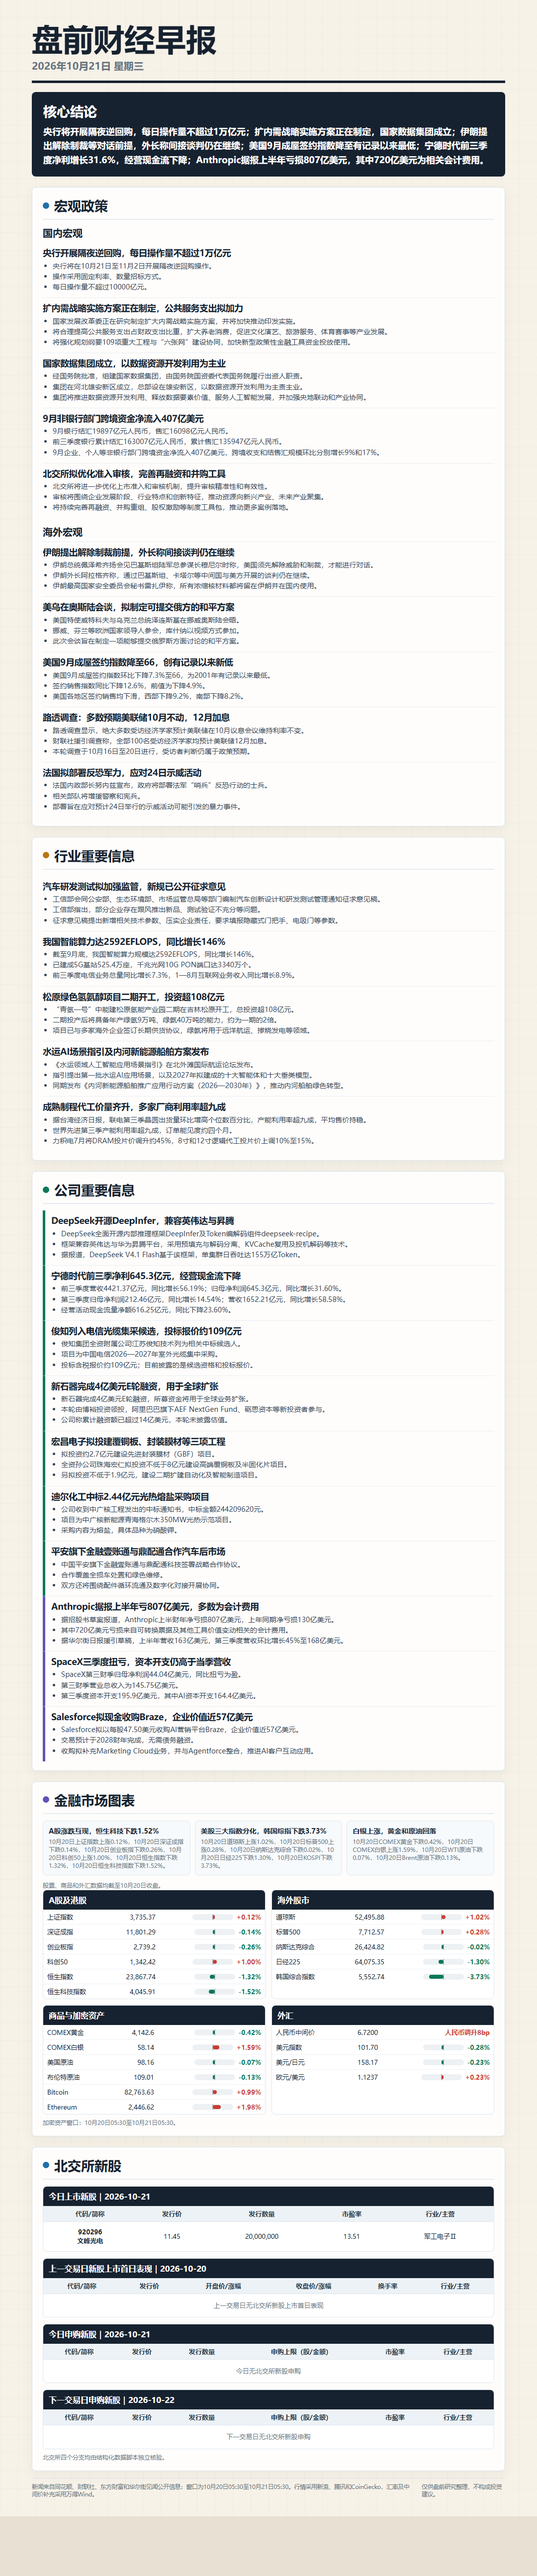
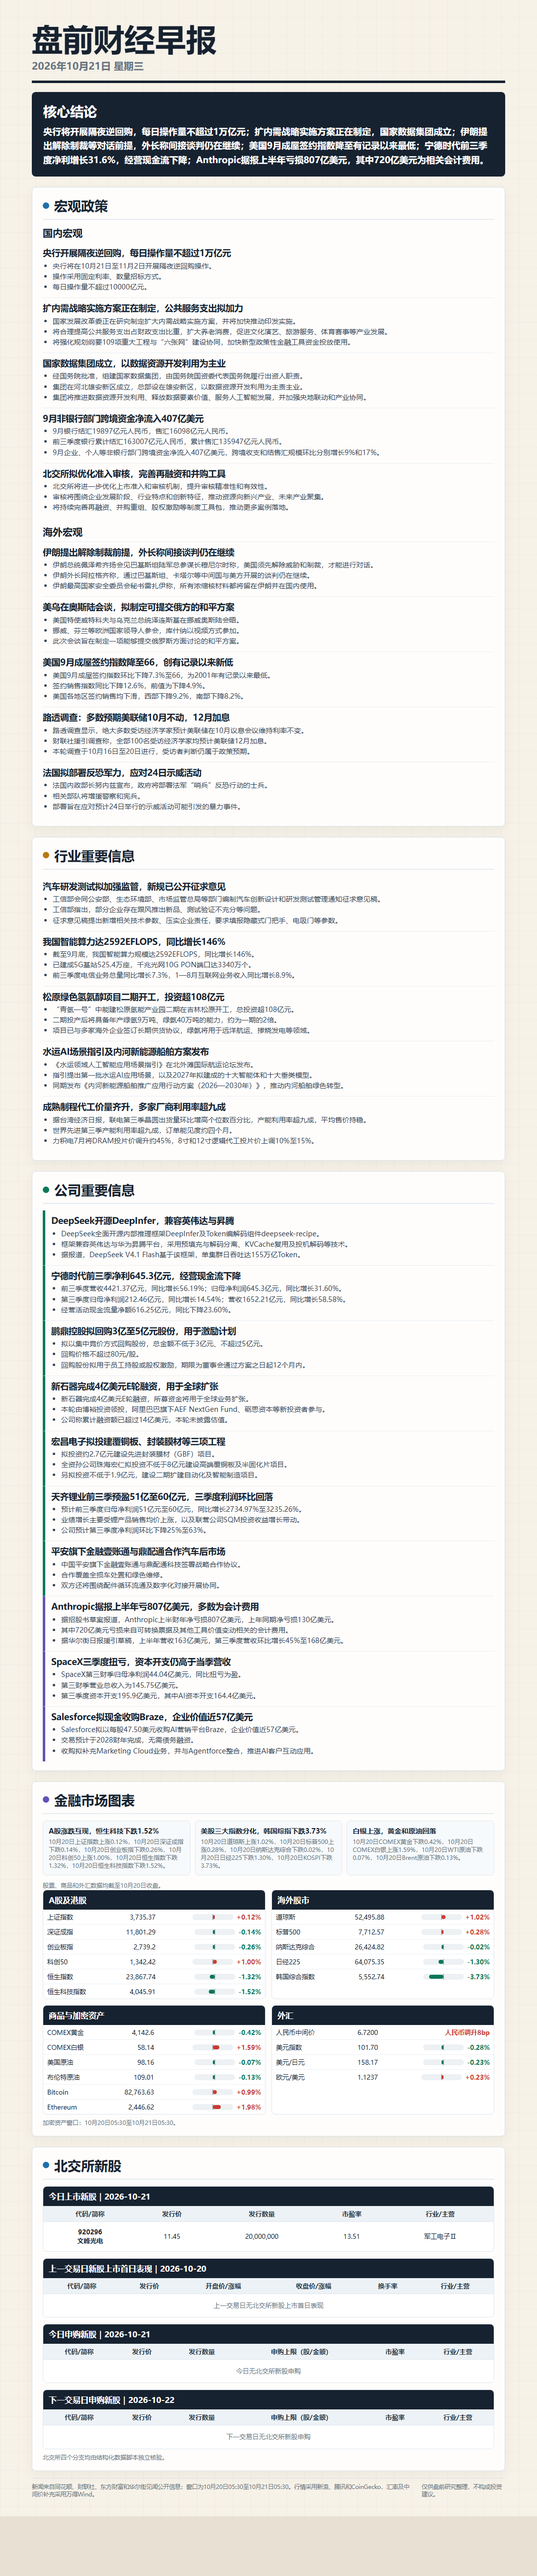
Correct 2026-10-21 morning brief

Changed region(s): [[0.1222, 0.5595, 0.5194, 0.5905], [0.0917, 0.4973, 0.4583, 0.5284]]

diff --git a/2026-10-21/report.html b/2026-10-21/report.html
@@ -96,8 +96,8 @@
       <ul><li>前三季度营收4421.37亿元，同比增长56.19%；归母净利润645.3亿元，同比增长31.60%。</li><li>第三季度归母净利润212.46亿元，同比增长14.54%；营收1652.21亿元，同比增长58.58%。</li><li>经营活动现金流量净额616.25亿元，同比下降23.60%。</li></ul>
     </article>
     <article class="item company-line">
-      <h4>俊知列入电信光缆集采候选，投标报价约109亿元</h4>
-      <ul><li>俊知集团全资附属公司江苏俊知技术列为相关中标候选人。</li><li>项目为中国电信2026—2027年室外光缆集中采购。</li><li>投标含税报价约109亿元；目前披露的是候选资格和投标报价。</li></ul>
+      <h4>鹏鼎控股拟回购3亿至5亿元股份，用于激励计划</h4>
+      <ul><li>拟以集中竞价方式回购股份，总金额不低于3亿元、不超过5亿元。</li><li>回购价格不超过80元/股。</li><li>回购股份拟用于员工持股或股权激励，期限为董事会通过方案之日起12个月内。</li></ul>
     </article>
     <article class="item company-line">
       <h4>新石器完成4亿美元E轮融资，用于全球扩张</h4>
@@ -108,8 +108,8 @@
       <ul><li>拟投资约2.7亿元建设先进封装膜材（GBF）项目。</li><li>全资孙公司珠海宏仁拟投资不低于8亿元建设高端覆铜板及半固化片项目。</li><li>另拟投资不低于1.9亿元，建设二期扩建自动化及智能制造项目。</li></ul>
     </article>
     <article class="item company-line">
-      <h4>迪尔化工中标2.44亿元光热熔盐采购项目</h4>
-      <ul><li>公司收到中广核工程发出的中标通知书，中标金额244209620元。</li><li>项目为中广核新能源青海格尔木350MW光热示范项目。</li><li>采购内容为熔盐，具体品种为硝酸钾。</li></ul>
+      <h4>天齐锂业前三季预盈51亿至60亿元，三季度利润环比回落</h4>
+      <ul><li>预计前三季度归母净利润51亿元至60亿元，同比增长2734.97%至3235.26%。</li><li>业绩增长主要受锂产品销售均价上涨，以及联营公司SQM投资收益增长带动。</li><li>公司预计第三季度净利润环比下降25%至63%。</li></ul>
     </article>
     <article class="item company-line">
       <h4>平安旗下金融壹账通与鼎配通合作汽车后市场</h4>

diff --git a/2026-10-21/sources-2026-10-21.md b/2026-10-21/sources-2026-10-21.md
@@ -34,10 +34,11 @@
 - industry: 成熟制程晶圆代工涨价潮延续 联电、世界先进、力积电持续迎来价量齐扬盛况 - https://www.cls.cn/detail/2509190
 - domesticCompanies: DeepSeek全面开源推理框架：兼容英伟达、华为昇腾芯片，单集群日吞吐155万亿Token，每卡每小时收入38美元 - https://wallstreetcn.com/articles/3784020
 - domesticCompanies: 宁德时代：前三季度归母净利润645.3亿元，同比增长31.60% - https://wallstreetcn.com/livenews/3181921
-- domesticCompanies: 俊知集团预中标中国电信2026–2027年室外光缆集采项目 投标报价含税约109亿元 - http://field.10jqka.com.cn/20261020/c680888473.shtml
+- domesticCompanies: 鹏鼎控股：拟3亿元至5亿元回购公司股份 回购价不超80元/股 - https://finance.eastmoney.com/a/202610203901460726.html
 - domesticCompanies: 无人配送车制造商新石器完成4亿美元融资 阿里巴巴旗下基金参与投资 - https://wallstreetcn.com/livenews/3181539
 - domesticCompanies: 宏昌电子：拟8亿元投建高端覆铜板及半固化片建设项目 2.7亿元投建先进封装膜材项目 - https://www.cls.cn/detail/2509974
-- domesticCompanies: 迪尔化工：中标2.44亿元光热项目熔盐采购 - https://finance.eastmoney.com/a/202610203901697665.html
+- domesticCompanies: 天齐锂业：预计2026年前三季度归母净利润51亿元-60亿元，同比增长2734.97%-3235.26% - https://wallstreetcn.com/livenews/3181880
+  - supporting (event_extension): 天齐锂业：预计前三季度净利润同比增长2735%-3235% 主要锂产品销售均价明显增长 - https://www.cls.cn/detail/2510103
 - domesticCompanies: 金融壹账通携手鼎配通科技，深化汽车后市场布局 - http://field.10jqka.com.cn/20261020/c680888885.shtml
 - overseasCompanies: Anthropic备战IPO：上半年净亏损超过807亿美元，总算力承诺支出将超6000亿美元 - https://wallstreetcn.com/articles/3784062
   - supporting (event_extension): Anthropic据报上半年净亏807亿美元 未来数年或再花7500亿美元购买算力 - https://www.cls.cn/detail/2510404
